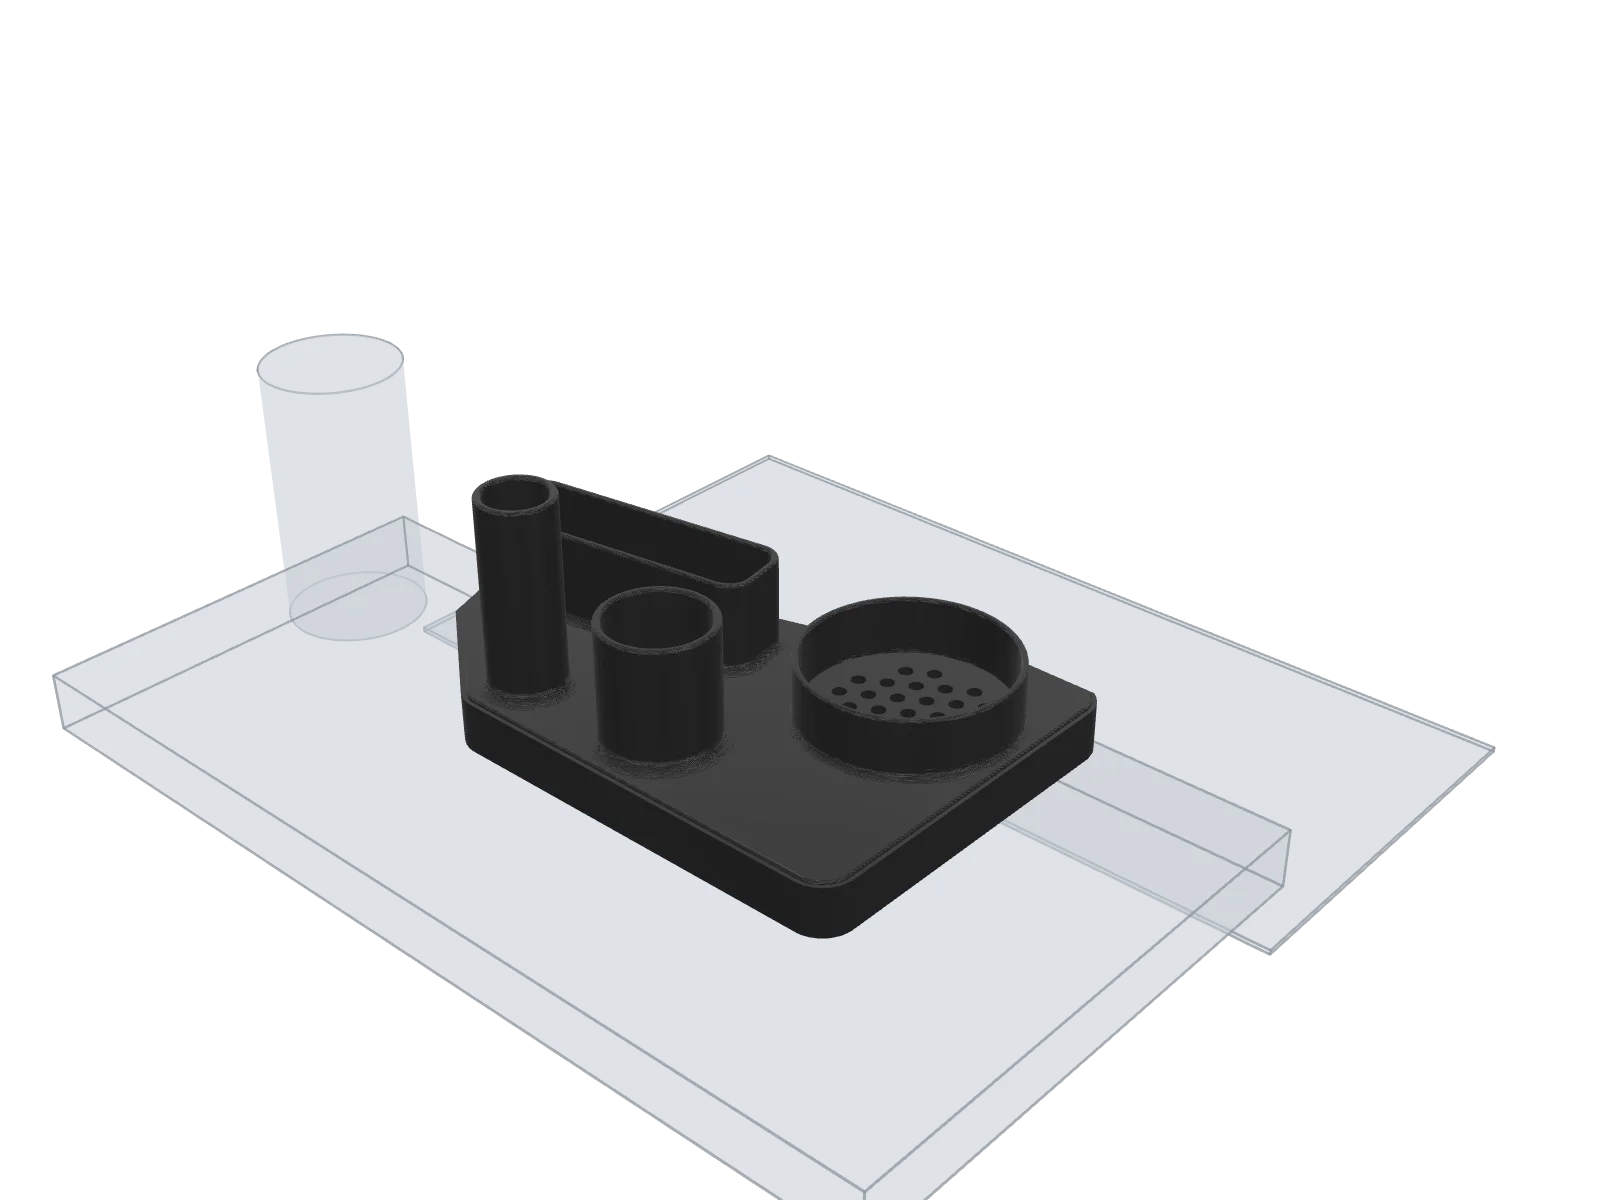
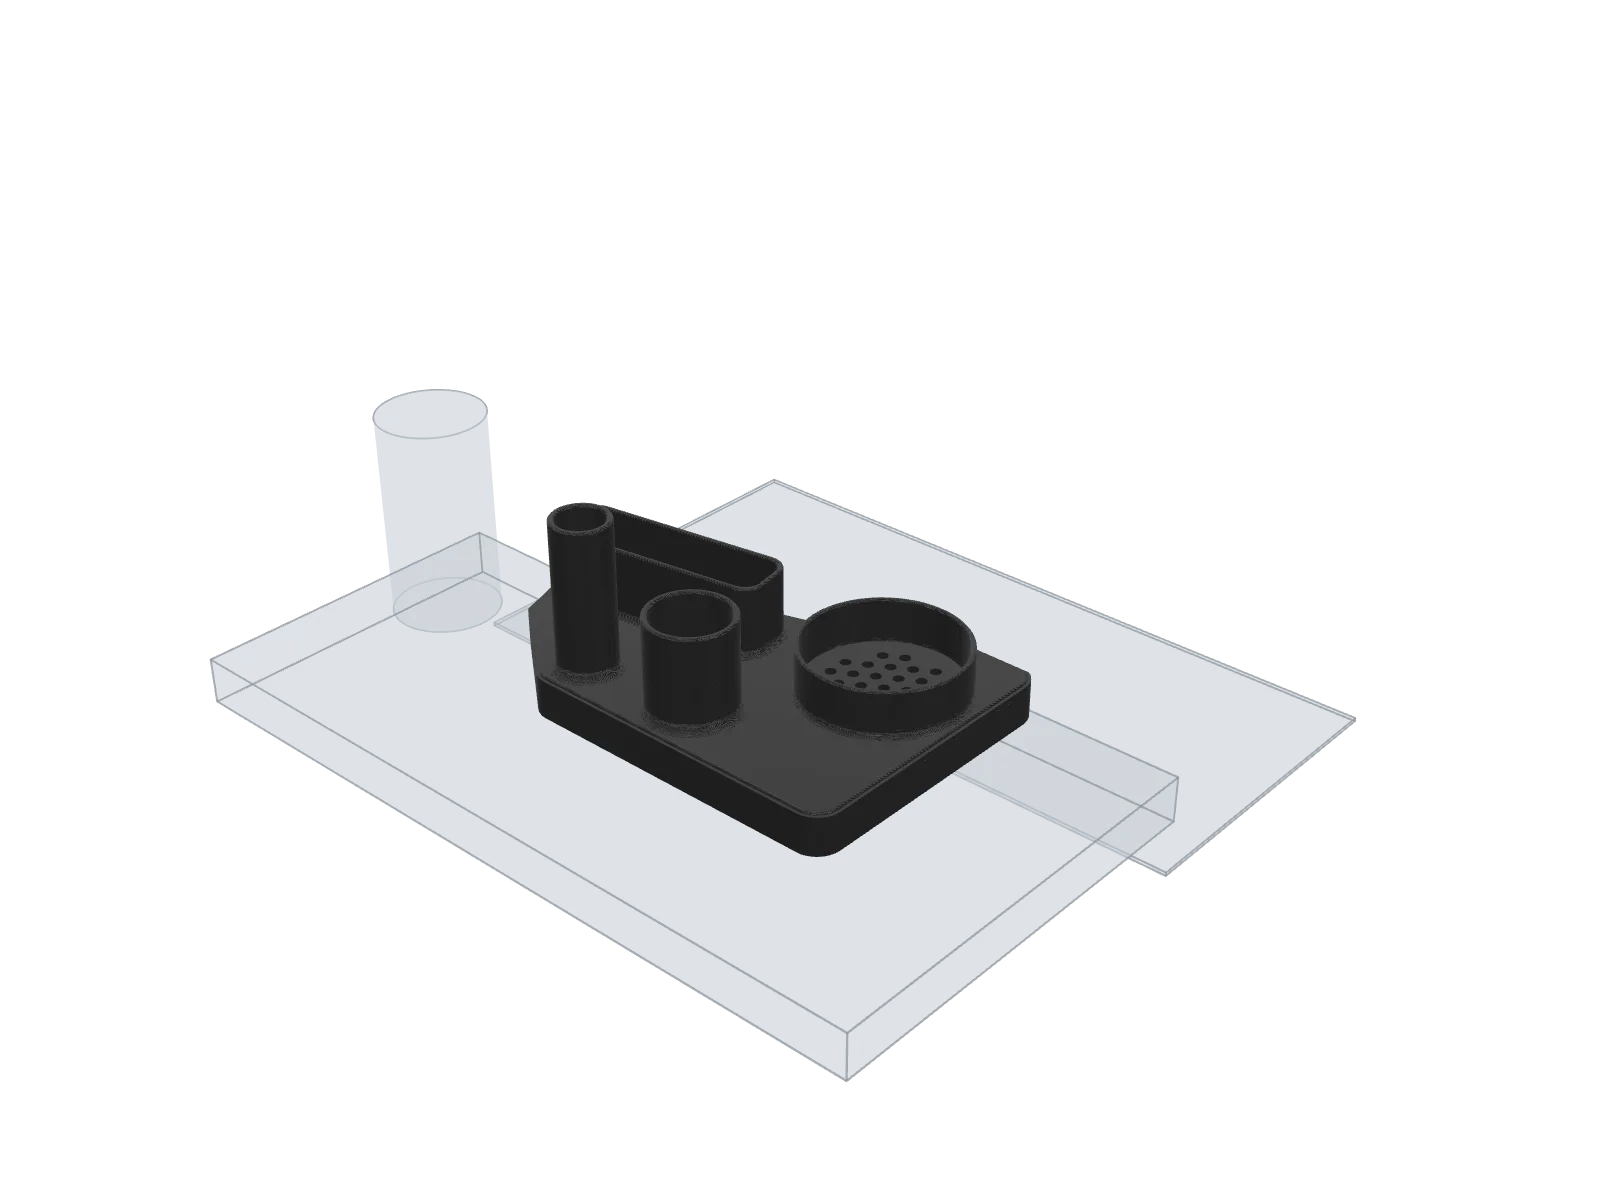
Prints: zoom out the ghost and sink caddy scenes; tile toggle to the top left
sceneCameraOrbit radius: ghost-headphones 80% -> 120%, sink-caddy 75% -> 95%
(angles unchanged), so the whole figure and the counter edge fit. Scene posters
re-rendered at the new orbits. On tiles the Show in setting button moves to the
top left, clear of the ghost figure's base; it stays bottom left in the dialog.

Changed region(s): [[0.0312, 0.2775, 0.9375, 1.0]]

diff --git a/css/site.css b/css/site.css
@@ -326,7 +326,7 @@ button.link { font: inherit; color: inherit; border: 0; border-radius: 0; paddin
 .pbtn:hover, .pbtn[aria-pressed="true"] { background: var(--signal); }
 /* "Show in setting": sits on the model like the dialog's version buttons, bottom left so the two never meet */
 .print-toggle { position: absolute; left: 12px; bottom: 12px; z-index: 1; }
-.print .print-toggle { left: 0; }
+.print .print-toggle { left: 0; top: 12px; bottom: auto; }      /* top left on tiles, clear of the base of a tall scene */
 .prints :focus-visible, .print-dialog :focus-visible { outline: 2px solid var(--ink); outline-offset: 2px; }
 
 /* Detail view: a native dialog, squared off, with the same rules as a page */

diff --git a/design/DESIGN.md b/design/DESIGN.md
@@ -64,7 +64,7 @@ Sentence case everywhere — no all-caps labels. Mono is for small factual detai
 - **Callout** — amber wash block, reserved for warnings.
 - **Pager** — previous / next project at the bottom of detail pages.
 - **Model** — an interactive three.js view in place of hero media (`.model`): a 16:9 viewport with mono view buttons on it, sliders and a readout row beneath. Paper, ink tints and amber only, with amber marking the parts the project made. A still image sits underneath for browsers without WebGL and doubles as the `og:image`. three.js is vendored in `js/vendor/`; each model gets its own script (see `js/scope-gantry.js`).
-- **Print** — one block per 3D print on [`/prints/`](../prints/index.html) (`.print`), two across on desktop: a 2px rule, the model in a 4:3 frame straight on the paper (no box around it), then title, one line of description, a small facts list and a "Photos and details" link. Not a card: no fill, no border, no shadow. The model is Google's `<model-viewer>` (vendored), given the printed treatment like a photo; its poster image shows until it loads and stays if it can't. A print that has a scene gets one mono button on the model, "Show in setting", amber while it's on, which swaps the clean model for the print among the things it lives with. Details open in a native `<dialog>` with a 2px ink border and square corners: a bigger model with mono version buttons on it (and the same "Show in setting" button), the full facts list, photos one at a time, and a versions table. Entries come from `data/prints.json`; see [`docs/prints-gallery.md`](../docs/prints-gallery.md).
+- **Print** — one block per 3D print on [`/prints/`](../prints/index.html) (`.print`), two across on desktop: a 2px rule, the model in a 4:3 frame straight on the paper (no box around it), then title, one line of description, a small facts list and a "Photos and details" link. Not a card: no fill, no border, no shadow. The model is Google's `<model-viewer>` (vendored), given the printed treatment like a photo; its poster image shows until it loads and stays if it can't. A print that has a scene gets one mono button on the model (top left on a tile, bottom left in the dialog), "Show in setting", amber while it's on, which swaps the clean model for the print among the things it lives with. Details open in a native `<dialog>` with a 2px ink border and square corners: a bigger model with mono version buttons on it (and the same "Show in setting" button), the full facts list, photos one at a time, and a versions table. Entries come from `data/prints.json`; see [`docs/prints-gallery.md`](../docs/prints-gallery.md).
 - **Badge** — a mono label on solid amber with ink text (`.badge`). Only for marking placeholder content.
 
 ## Imagery
